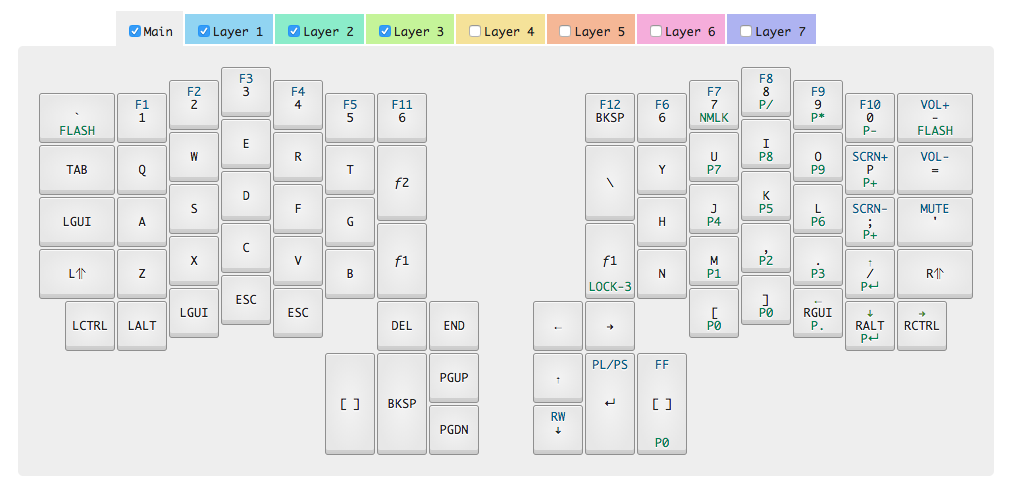
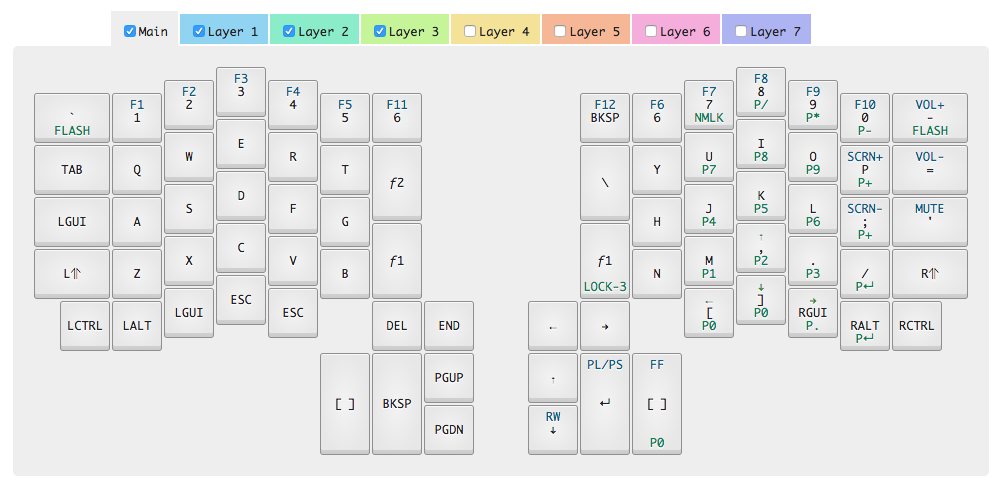
add layout 009

Changed region(s): [[0.5259, 0.1232, 0.99, 0.9548], [0.0309, 0.1232, 0.495, 0.9548], [0.1238, 0.0308, 0.8044, 0.0924]]

diff --git a/README.md b/README.md
@@ -11,11 +11,20 @@ Keyboard is ready!
 
 Built using [the input club configurator](http://configurator.inputclub.com/alpha/?layout=MDErgo1-Default).
 
-The goal is a programmer friendly layout that doesn't break my brain. I've
-been using 006 and up for more than a year now.
+The goal is a programmer friendly layout that doesn't break my brain. I've been using 006 and up for several years now. 7, 8, and 9 are just touchups.
 
 ### My Current Layout
 
-![programmer-007](https://github.com/abachman/ergodox/blob/master/programmer-008/programmer-008.png)
+![programmer-009](https://github.com/abachman/ergodox/blob/master/programmer-009/programmer-009.png)
 
 ![real life](https://github.com/abachman/ergodox/blob/master/programmer-007/real-life.jpg)
+
+
+### CHANGELOG
+
+#### **009**
+- change to https://configurator.input.club/alpha/?layout=MDErgo1-Blank, original configurator has stopped working
+- layer 3 changes for Fortnite
+  - swap LGUI for LALT to avoid accidental command-w quitting games
+  - put F4 on secondary left hand escape for building convenience
+  - swap { and } macros for PGUP and PGDN since Fortnite stopped recognizing those
